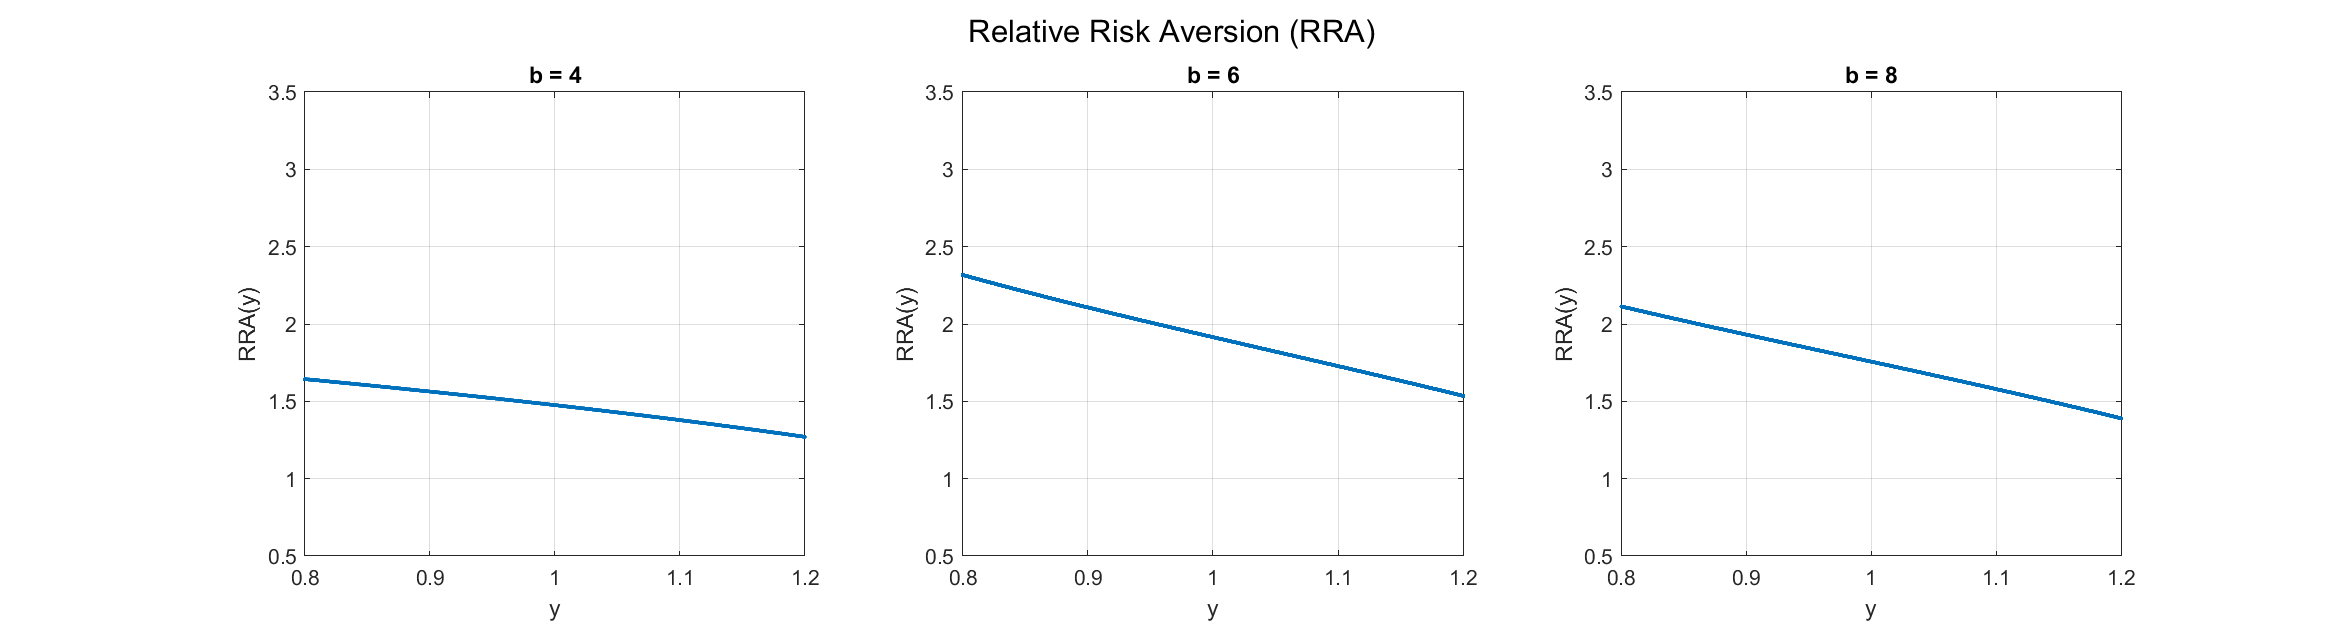
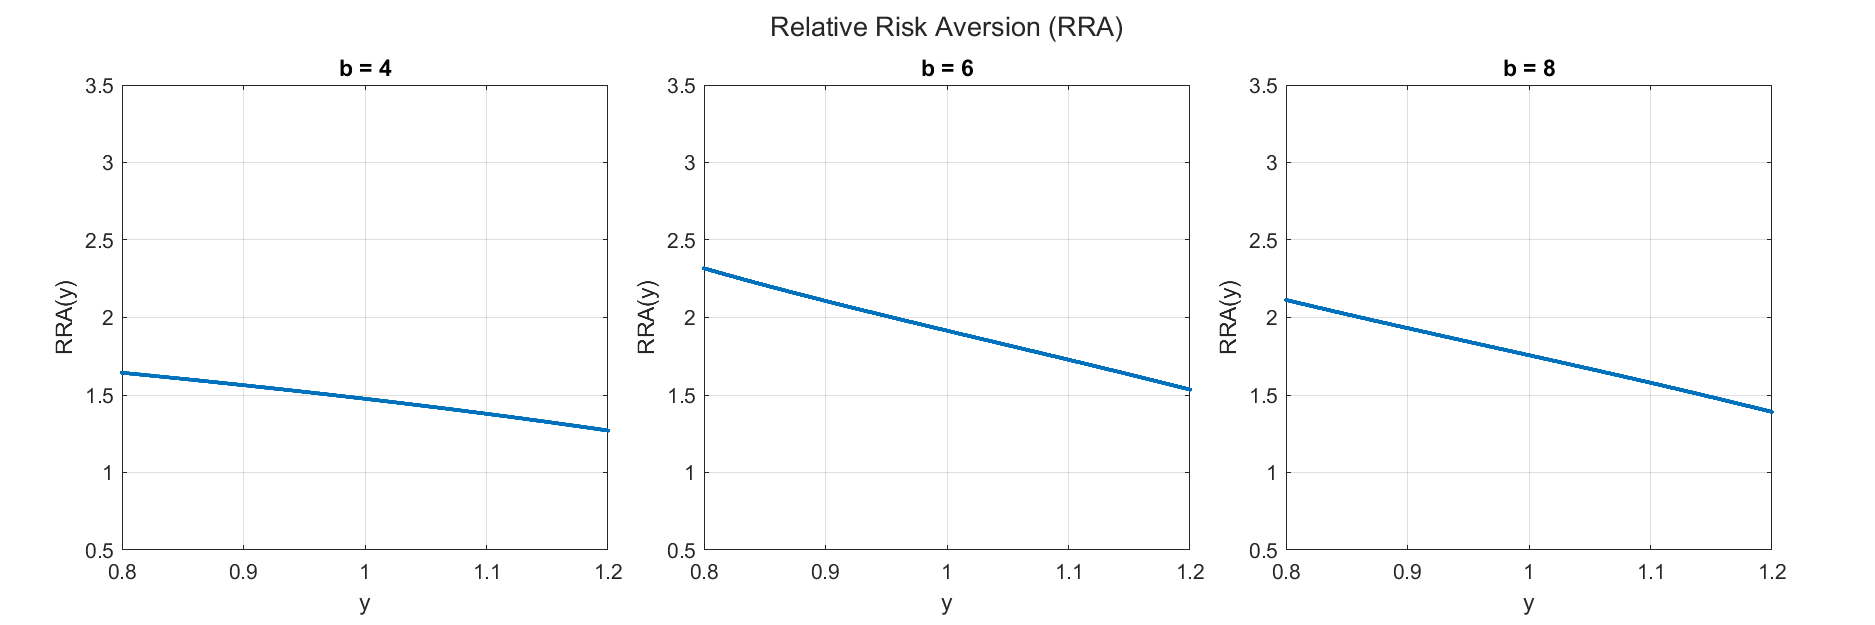
Replace subplot with tiledlayout to reduce whitespace

diff --git a/04  風險偏好指標（Risk Preference）/Procedure__Risk_Preference.m b/04  風險偏好指標（Risk Preference）/Procedure__Risk_Preference.m
@@ -172,8 +172,10 @@ y_min = -0.1;
 y_max = 1.6;
 
 figure;
+layout = tiledlayout(1, 3, 'TileSpacing', 'Compact', 'Padding', 'Compact');
+
 for idx = 1:3
-    subplot(1,3,idx);
+    nexttile;
 
     hold on;
     fill([x_start x_end x_end x_start], [y_min y_min y_max y_max], fill_color, 'FaceAlpha', 0.5, 'EdgeColor', 'none');
@@ -190,8 +192,7 @@ for idx = 1:3
 end
 sgtitle('g Function');
 
-set(gcf, 'Position', [100, 100, 1500, 400]);
-set(gca, 'LooseInset', get(gca,'TightInset'));
+set(gcf, 'Position', [100, 100, 1200, 400]);
 
 % filename = 'g_function.png';
 % saveas(gcf, fullfile(Path_Output, filename));
@@ -201,9 +202,12 @@ set(gca, 'LooseInset', get(gca,'TightInset'));
 %%  g function and its derivatives
 
 figure;
+layout = tiledlayout(3, 4, 'TileSpacing', 'Compact', 'Padding', 'Compact');
+
 for idx = 1:3
     % Plot g(y)
-    subplot(4,3,idx);
+    nexttile;
+
     hold on;
     plot(y, store_g(idx, :), '.');
     title(['g(y), b = ', num2str((idx + 1) * 2)]);
@@ -216,7 +220,8 @@ for idx = 1:3
     hold off;
 
     % Plot g'(y)
-    subplot(4,3,idx + 3);
+    nexttile;
+
     hold on;
     plot(y, store_g_prime(idx, :), '.');
     title(['g''(y), b = ', num2str((idx + 1) * 2)]);
@@ -229,7 +234,8 @@ for idx = 1:3
     hold off;
 
     % Plot g''(y)
-    subplot(4,3,idx + 6);
+    nexttile;
+
     hold on;
     plot(y, store_g_double_prime(idx, :), '.');
     title(['g''''(y), b = ', num2str((idx + 1) * 2)]);
@@ -242,7 +248,8 @@ for idx = 1:3
     hold off;
 
     % Plot g'''(y)
-    subplot(4,3,idx + 9);
+    nexttile;
+
     hold on;
     plot(y, store_g_triple_prime(idx, :), '.');
     title(['g''''''(y), b = ', num2str((idx + 1) * 2)]);
@@ -253,10 +260,12 @@ for idx = 1:3
     grid on;
     set(gca, 'box', 'on');
     hold off;
+
 end
+
 sgtitle('g Function and Its Derivatives');
 
-set(gcf, 'Position', [100, 100, 1200, 850]);
+set(gcf, 'Position', [100, 100, 1500, 800]);
 
 filename = 'g_Function_and_Its_Derivatives.png';
 saveas(gcf, fullfile(Path_Output, filename));
@@ -269,8 +278,10 @@ y_min = 0.5;
 y_max = 3.5;
 
 figure;
+layout = tiledlayout(1, 3, 'TileSpacing', 'Compact', 'Padding', 'Compact');
+
 for idx = 1:3
-    subplot(1,3,idx);
+    nexttile;
 
     hold on;
     % fill([x_start x_end x_end x_start], [y_min y_min y_max y_max], fill_color, 'FaceAlpha', 0.5, 'EdgeColor', 'none');
@@ -287,8 +298,7 @@ for idx = 1:3
 end
 sgtitle('Absolute Risk Aversion (ARA)');
 
-set(gcf, 'Position', [100, 100, 1500, 400]);
-set(gca, 'LooseInset', get(gca,'TightInset'));
+set(gcf, 'Position', [100, 100, 1200, 400]);
 
 filename = 'Absolute_Risk_Aversion.png';
 saveas(gcf, fullfile(Path_Output, filename));
@@ -301,8 +311,10 @@ y_min = 0.5;
 y_max = 3.5;
 
 figure;
+layout = tiledlayout(1, 3, 'TileSpacing', 'Compact', 'Padding', 'Compact');
+
 for idx = 1:3
-    subplot(1,3,idx);
+    nexttile;
 
     hold on;
     % fill([x_start x_end x_end x_start], [y_min y_min y_max y_max], fill_color, 'FaceAlpha', 0.5, 'EdgeColor', 'none');
@@ -319,8 +331,7 @@ for idx = 1:3
 end
 sgtitle('Relative Risk Aversion (RRA)');
 
-set(gcf, 'Position', [100, 100, 1500, 400]);
-set(gca, 'LooseInset', get(gca,'TightInset'));
+set(gcf, 'Position', [100, 100, 1200, 400]);
 
 filename = 'Relative_Risk_Aversion.png';
 saveas(gcf, fullfile(Path_Output, filename));
@@ -333,8 +344,10 @@ y_min = 2;
 y_max = 5.5;
 
 figure;
+layout = tiledlayout(1, 3, 'TileSpacing', 'Compact', 'Padding', 'Compact');
+
 for idx = 1:3
-    subplot(1,3,idx);
+    nexttile;
 
     hold on;
     % fill([x_start x_end x_end x_start], [y_min y_min y_max y_max], fill_color, 'FaceAlpha', 0.5, 'EdgeColor', 'none');
@@ -351,8 +364,7 @@ for idx = 1:3
 end
 sgtitle('Absolute Prudence (AP)');
 
-set(gcf, 'Position', [100, 100, 1500, 400]);
-set(gca, 'LooseInset', get(gca,'TightInset'));
+set(gcf, 'Position', [100, 100, 1200, 400]);
 
 filename = 'Absolute_Prudence.png';
 saveas(gcf, fullfile(Path_Output, filename));
@@ -365,8 +377,10 @@ y_min = 2;
 y_max = 5.5;
 
 figure;
+layout = tiledlayout(1, 3, 'TileSpacing', 'Compact', 'Padding', 'Compact');
+
 for idx = 1:3
-    subplot(1,3,idx);
+    nexttile;
 
     hold on;
     % fill([x_start x_end x_end x_start], [y_min y_min y_max y_max], fill_color, 'FaceAlpha', 0.5, 'EdgeColor', 'none');
@@ -383,8 +397,7 @@ for idx = 1:3
 end
 sgtitle('Relative Prudence (RP)');
 
-set(gcf, 'Position', [100, 100, 1500, 400]);
-set(gca, 'LooseInset', get(gca,'TightInset'));
+set(gcf, 'Position', [100, 100, 1200, 400]);
 
 filename = 'Relative_Prudence.png';
 saveas(gcf, fullfile(Path_Output, filename));
@@ -397,8 +410,10 @@ y_min = 2.5;
 y_max = 7;
 
 figure;
+layout = tiledlayout(1, 3, 'TileSpacing', 'Compact', 'Padding', 'Compact');
+
 for idx = 1:3
-    subplot(1,3,idx);
+    nexttile;
 
     hold on;
     % fill([x_start x_end x_end x_start], [y_min y_min y_max y_max], fill_color, 'FaceAlpha', 0.5, 'EdgeColor', 'none');
@@ -415,8 +430,7 @@ for idx = 1:3
 end
 sgtitle('Absolute Temperance (AT)');
 
-set(gcf, 'Position', [100, 100, 1500, 400]);
-set(gca, 'LooseInset', get(gca,'TightInset'));
+set(gcf, 'Position', [100, 100, 1200, 400]);
 
 filename = 'Absolute_Temperance.png';
 saveas(gcf, fullfile(Path_Output, filename));
@@ -429,8 +443,10 @@ y_min = 2.5;
 y_max = 7;
 
 figure;
+layout = tiledlayout(1, 3, 'TileSpacing', 'Compact', 'Padding', 'Compact');
+
 for idx = 1:3
-    subplot(1,3,idx);
+    nexttile;
 
     hold on;
     % fill([x_start x_end x_end x_start], [y_min y_min y_max y_max], fill_color, 'FaceAlpha', 0.5, 'EdgeColor', 'none');
@@ -447,8 +463,7 @@ for idx = 1:3
 end
 sgtitle('Relative Temperance (RT)');
 
-set(gcf, 'Position', [100, 100, 1500, 400]);
-set(gca, 'LooseInset', get(gca,'TightInset'));
+set(gcf, 'Position', [100, 100, 1200, 400]);
 
 filename = 'Relative_Temperance.png';
 saveas(gcf, fullfile(Path_Output, filename));
